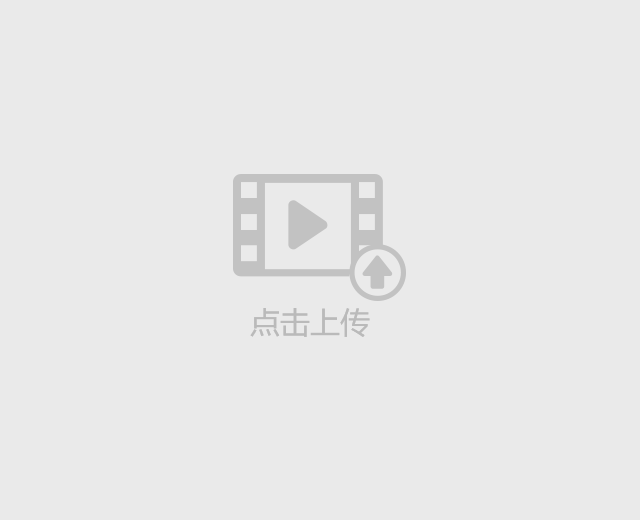
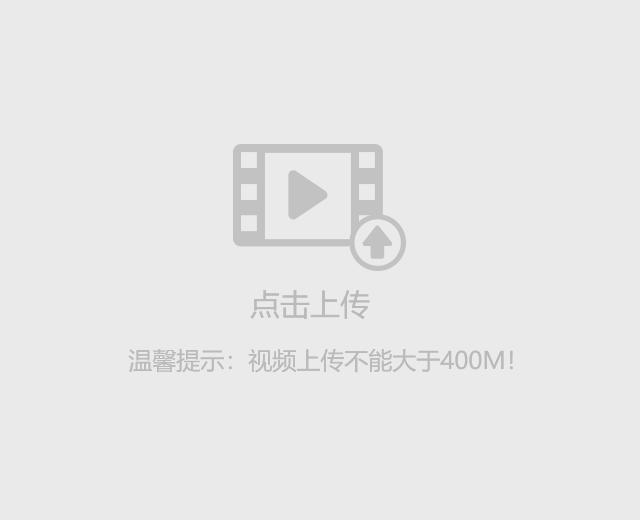
11

Changed region(s): [[0.3438, 0.2769, 0.6562, 0.6462], [0.375, 0.6769, 0.8125, 0.7385], [0.1875, 0.6462, 0.3438, 0.7385]]

diff --git a/examsystem/src/views/previewpage.vue b/examsystem/src/views/previewpage.vue
@@ -11,10 +11,11 @@
   position: relative;
   top: -40px;
   padding-bottom: 95px;
+  z-index: 999;
 }
 .videoBox{
   width: 336px;
-  height: 320px;
+  height: 340px;
   border-radius: 11px;
   box-shadow: 2px 4px 1px 0px rgba(212, 74, 34, 0.75);
   background: #fff;
@@ -134,6 +135,12 @@ video{
   top: 0;
   left: 0;
 }
+.videotext{
+	font-size: 10px;
+	font-weight: 400;
+	color: #BABABA;
+	line-height: 32px;
+}
 </style>
 <template>
 	<div class="body">
@@ -158,6 +165,7 @@ video{
             <div v-else class="noVideo">
               <div class="noVideoIcon"></div>
             </div>
+		  <div v-if="item.video" class="videotext">第{{item.video.num}}次上传</div>
           </div>
         </div>
       </div>
@@ -176,11 +184,15 @@ export default {
   },
   data(){
 	  return{
-      videoList:[]
+		videoList:[],
+		scrollnum:0
 	  }
   },
   created() {
     this.getVideoList();
+  },
+  mounted() {
+  	 window.addEventListener("scroll",this.handleScroll);
   },
   methods:{
     getVideoList(){
@@ -205,13 +217,33 @@ export default {
     },
     getNum(index){
       var indexStr=index+'';
+	  if(index==9){
+	  	return index+1; 
+	  }
       if(indexStr.length==1){
          return '0'+(index+1);
-      }
-      else{
+      }else{
         return index+1;
       }
-    }
+	  
+    },
+	handleScroll() {
+	//获取滚动时的高度
+		let scrollTop = window.pageYOffset || document.documentElement.scrollTop || document.body.scrollTop;
+		
+		let nums=scrollTop-this.scrollnum
+		if (nums > 320 || nums<-320) {
+		  //大于200的时候要做的操作
+		  this.scrollnum=scrollTop;
+		  var vilist=document.getElementsByTagName("video");
+		  for(var i=0;i<vilist.length;i++){
+			  vilist[i].pause()
+		  }
+		}
+	}
+  },
+  destroyed() {
+	document.removeEventListener('scroll', this.handleScroll)
   }
 }
 </script>

diff --git a/examsystem/src/views/uploads.vue b/examsystem/src/views/uploads.vue
@@ -62,9 +62,9 @@
 	}
 	.bgimgbtm{
 		width: 100%;
-		height: 92px;
+		height: 35px;
 		background: url(../assets/today1.png) no-repeat;
-		background-size: 100% 92px;
+		background-size: 100% 35px;
 		margin-top: 21px;
 	}
 	.info{
@@ -98,7 +98,8 @@
 	.videodiv{
 		width: 320px;
 		height: 260px;
-		line-height: 50px;
+		line-height: 30px;
+		margin-top: 90px;
 	}
 	.master{
 		width: 100%;
@@ -146,7 +147,7 @@
 					<input type="file" accept="video/*" @change="picUpload($event)" />
 				</p>
 			</div>
-			<div class="videodiv" v-if="isvideo">当前已选择了一个视频</div>
+			<div class="videodiv" v-if="isvideo">当前已上传一个视频<br />请点击提交!</div>
 		</div>
 		<div class="submitbtn" @click="submitbtn()">提交</div>
 		<div class="bgimgbtm"></div>
@@ -193,6 +194,7 @@
 							this.$router.push({
 								name: 'choise',
 							})
+							localStorage.removeItem('Authorization');
 						}
 					}else{
 						this.$router.push({
@@ -218,7 +220,8 @@
 				if(content.size /1024 < 1024 * 400){
 					this.videofile = e.target.files[0];
 				}else{
-					alert('请选择小于400M的视频')
+					alert('请选择小于400M的视频');
+					this.$router.go(0);
 				}
 				// var duration;
 				// var that=this

diff --git a/examsystem/src/views/uploadpage.vue b/examsystem/src/views/uploadpage.vue
@@ -153,12 +153,11 @@ export default {
 							// 	datalist:datalist,
 							// }
 						})
-					}else if(res.data.resultData.code==1){
+					}else if(res.data.resultData.code==0){
 						alert('对不起，您没有上传视频的权限')
-					}else{
-						alert(res.data.message)
+					}else if(res.data.resultData.code==2){
+						alert(res.data.data)
 					}
-					
 				}else{
 					alert(res.data.message)
 				}		

diff --git a/examsystem/public/index.html b/examsystem/public/index.html
@@ -6,7 +6,7 @@
     <!-- <meta name="viewport" content="width=device-width,initial-scale=1.0"> -->
 	<meta name="viewport" content="width=device-width, initial-scale=1.0, maximum-scale=1.0, user-scalable=no" />
     <link rel="icon" href="<%= BASE_URL %>favicon.ico">
-    <title>视频征集</title>
+    <title>视频上传</title>
   </head>
   <body>
     <noscript>

diff --git a/examsystem/src/views/chiose.vue b/examsystem/src/views/chiose.vue
@@ -31,10 +31,9 @@
 	}
 	.thrimg{
 		width: 100%;
-		height: 92px;
+		height: 35px;
 		background: url(../assets/spimg1.png) no-repeat;
-		background-size: 100% 92px;
-		margin-bottom: 15px;
+		background-size: 100% 35px;
 	}
 </style>
 <template>
